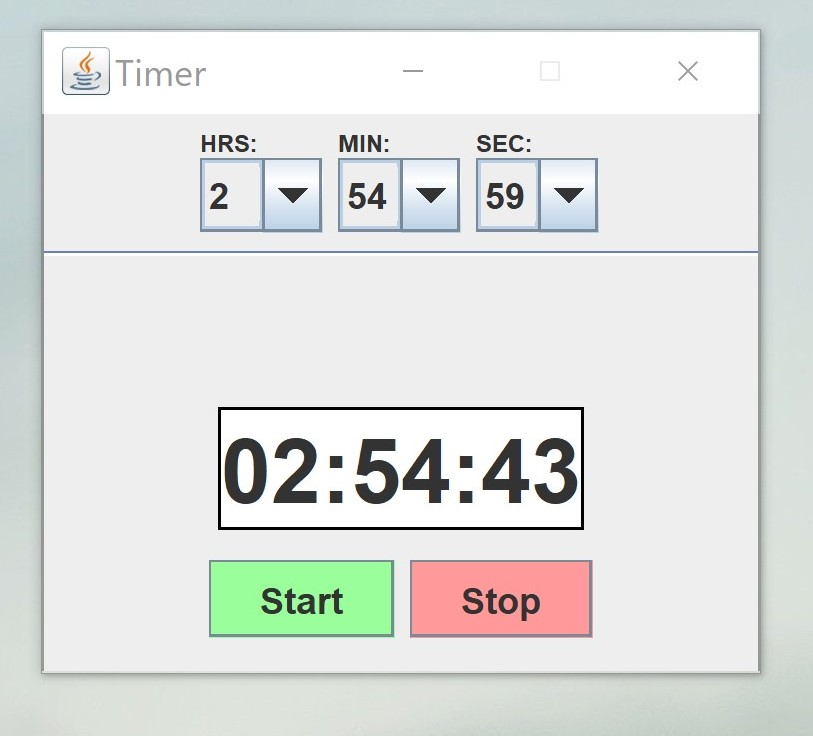
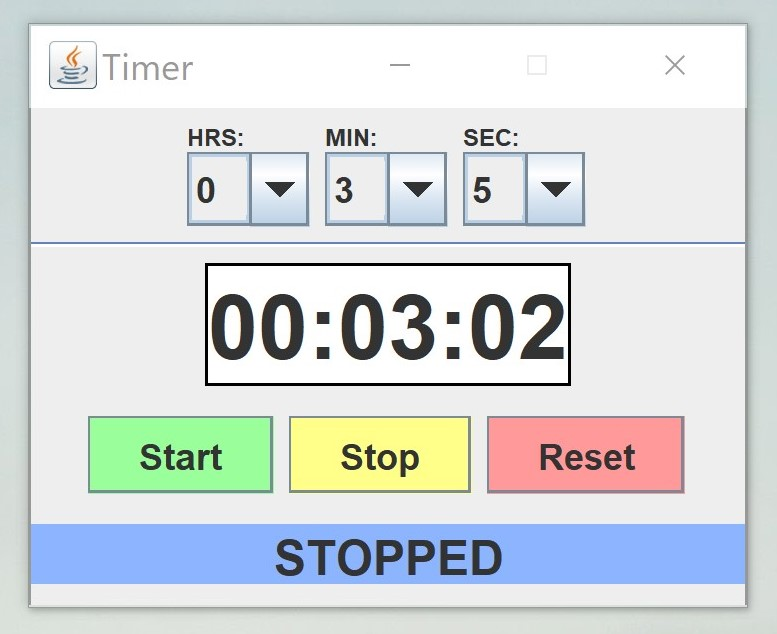
A status bar and a stopping mode have been added

diff --git a/src/TimerWindow.java b/src/TimerWindow.java
@@ -13,10 +13,9 @@ public class TimerWindow extends JFrame
     public TimerWindow()
     {
         super.setTitle("Timer");
-        super.setPreferredSize(new Dimension(250,220));
+        super.setPreferredSize(new Dimension(250,200));
+        super.setLayout(new BorderLayout());
         super.setDefaultCloseOperation(WindowConstants.EXIT_ON_CLOSE);
-
-        super.setLayout(new GridLayout(2,1));
 
         super.setResizable(false);
         super.setVisible(true);
@@ -35,41 +34,61 @@ public class TimerWindow extends JFrame
         comboBoxPanel.add(secondsListPanel, FlowLayout.RIGHT);
 
         JPanel mainPanel1=new JPanel();
-        mainPanel1.setLayout(new GridLayout(2,1));
-
+        mainPanel1.setLayout(new BorderLayout());
         mainPanel1.add(comboBoxPanel, BorderLayout.CENTER);
         mainPanel1.add(new JSeparator(), BorderLayout.PAGE_END);
 
         JLabel timeLabel = new JLabel();
-        timeLabel.setHorizontalAlignment(SwingConstants.CENTER);
-        timeLabel.setVerticalAlignment(SwingConstants.CENTER);
-
         timeLabel.setText("HH:MM:SS");
         timeLabel.setFont(new Font("", Font.BOLD, 30));
-
         timeLabel.setBackground(Color.white);
         timeLabel.setBorder(BorderFactory.createLineBorder(Color.black));
         timeLabel.setOpaque(true);
 
+        JLabel endLabel = new JLabel();
+        endLabel.setHorizontalAlignment(SwingConstants.CENTER);
+        endLabel.setPreferredSize(new Dimension(this.getPreferredSize().width, 20));
+        endLabel.setBackground(new Color(140, 180, 255));
+        endLabel.setFont(new Font("", Font.BOLD,16));
+        endLabel.setOpaque(true);
+
         JButton startButton = new JButton("Start");
         startButton.setBackground(new Color(154, 255, 154));
-
-        startButton.addActionListener((e)->
+        startButton.addActionListener((event)->
         {
-            if(hoursListPanel.timeList.getItemAt(hoursListPanel.timeList.getSelectedIndex())!=0 || minutesListPanel.timeList.getItemAt(minutesListPanel.timeList.getSelectedIndex())!=0 || secondsListPanel.timeList.getItemAt(secondsListPanel.timeList.getSelectedIndex())!=0)
+            if((hoursListPanel.timeList.getItemAt(hoursListPanel.timeList.getSelectedIndex())!=0 || minutesListPanel.timeList.getItemAt(minutesListPanel.timeList.getSelectedIndex())!=0 || secondsListPanel.timeList.getItemAt(secondsListPanel.timeList.getSelectedIndex())!=0))
             {
-                timerThread = TimerTask.createSingleTask(hoursListPanel.timeList.getItemAt(hoursListPanel.timeList.getSelectedIndex()), minutesListPanel.timeList.getItemAt(minutesListPanel.timeList.getSelectedIndex()), secondsListPanel.timeList.getItemAt(secondsListPanel.timeList.getSelectedIndex()), timeLabel);
+                timerThread = TimerTask.createSingleTask(hoursListPanel.timeList.getItemAt(hoursListPanel.timeList.getSelectedIndex()), minutesListPanel.timeList.getItemAt(minutesListPanel.timeList.getSelectedIndex()), secondsListPanel.timeList.getItemAt(secondsListPanel.timeList.getSelectedIndex()), timeLabel, endLabel);
             }
+
+            if (timerThread!=null)
+            {
+                endLabel.setText(TimerState.RUNNING.stateDescrition);
+            }
+
+            TimerTask.isWaiting = false;
         });
 
         JButton stopButton = new JButton("Stop");
-        stopButton.setBackground(new Color(255, 154, 154));
+        stopButton.setBackground(new Color(255, 255, 137));
+        stopButton.addActionListener((event)->
+        {
+            if(timerThread!=null && timerThread.isAlive())
+            {
+                TimerTask.isWaiting = true;
+                endLabel.setText(TimerState.STOPPED.stateDescrition);
+            }
+        });
 
-        stopButton.addActionListener((e)->
+        JButton resetButton = new JButton("Reset");
+        resetButton.setBackground(new Color(255, 154, 154));
+        resetButton.addActionListener((event)->
         {
             if(timerThread!=null)
             {
+                TimerTask.isWaiting = false;
                 timerThread.interrupt();
+                endLabel.setText("");
             }
         });
 
@@ -78,15 +97,16 @@ public class TimerWindow extends JFrame
 
         buttonPanel.add(startButton);
         buttonPanel.add(stopButton);
+        buttonPanel.add(resetButton);
 
         JPanel mainPanel2 = new JPanel();
         mainPanel2.setLayout(new FlowLayout());
-
         mainPanel2.add(timeLabel);
         mainPanel2.add(buttonPanel);
+        mainPanel2.add(endLabel);
 
         super.add(mainPanel1, BorderLayout.PAGE_START);
-        super.add(mainPanel2, BorderLayout.PAGE_END);
+        super.add(mainPanel2, BorderLayout.CENTER);
 
         super.pack();
    }

diff --git a/src/TimerTask.java b/src/TimerTask.java
@@ -3,28 +3,32 @@ import java.util.concurrent.TimeUnit;
 
 public class TimerTask implements Runnable
 {
-    private static Thread timerThread = null;
+    private static Thread timerThread;
+    static boolean isWaiting = false;
+
     private long secondsCounter;
 
     int hh = 0;
     int mm = 0;
     int ss = 0;
 
-    JLabel label;
-    StringBuilder time = new StringBuilder();
+    JLabel timeLabel;
+    JLabel endLabel;
+    StringBuilder timeString = new StringBuilder();
 
-    private TimerTask(int hours, int minutes, int seconds, JLabel label)
+    private TimerTask(int hours, int minutes, int seconds, JLabel timeLabel, JLabel endLabel)
     {
-        this.label = label;
+        this.timeLabel = timeLabel;
+        this.endLabel = endLabel;
         this.secondsCounter = (long) (hours*Math.pow(60,2) + minutes * 60L + seconds);
     }
 
-    public static Thread createSingleTask(int hours, int minutes, int seconds, JLabel label)
+    public static Thread createSingleTask(int hours, int minutes, int seconds, JLabel timeLabel, JLabel endLabel)
     {
         if(TimerTask.timerThread==null)
         {
-           TimerTask.timerThread = new Thread(new TimerTask(hours, minutes, seconds, label));
-           TimerTask.timerThread.start();
+           TimerTask.timerThread = new Thread(new TimerTask(hours, minutes, seconds, timeLabel, endLabel));
+           timerThread.start();
         }
         return TimerTask.timerThread;
     }
@@ -36,36 +40,38 @@ public class TimerTask implements Runnable
         {
             try
             {
-                hh = (int)(secondsCounter/Math.pow(60,2));
-                mm = (int)((secondsCounter - hh*Math.pow(60,2))/60);
-                ss = (int)((secondsCounter - hh*Math.pow(60,2))-mm*60);
-
-                time.setLength(0);
-                time.append((hh<10)?"0"+hh:hh)
-                        .append(":")
-                        .append((mm<10)?"0"+mm:mm)
-                        .append(":")
-                        .append((ss<10)?"0"+ss:ss);
-
-                label.setText(time.toString());
-
-                if(secondsCounter == 0)
+                if(!isWaiting)
                 {
-                    Thread.currentThread().interrupt();
-                }
-                else
-                {
+                    hh = (int)(secondsCounter/Math.pow(60,2));
+                    mm = (int)((secondsCounter - hh*Math.pow(60,2))/60);
+                    ss = (int)((secondsCounter - hh*Math.pow(60,2))-mm*60);
+
+                    timeString.setLength(0);
+                    timeString.append((hh<10)?"0"+hh:hh)
+                            .append(":")
+                            .append((mm<10)?"0"+mm:mm)
+                            .append(":")
+                            .append((ss<10)?"0"+ss:ss);
+
+                    timeLabel.setText(timeString.toString());
+
                     TimeUnit.SECONDS.sleep(1);
+                    if(secondsCounter == 0)
+                    {
+                        timerThread = null;
+                        timeLabel.setText("00:00:00");
+                        endLabel.setText(TimerState.FINISH.stateDescrition);
+                        Thread.currentThread().interrupt();
+                    }
                     secondsCounter--;
                 }
             }
             catch (InterruptedException e)
             {
-                timerThread=null;
-                label.setText("00:00:00");
+                timerThread = null;
+                timeLabel.setText("00:00:00");
                 return;
             }
         }
-        timerThread=null;
     }
 }

diff --git a/src/Main.java b/src/Main.java
@@ -4,13 +4,6 @@ public class Main
 {
     public static void main(String[] args)
     {
-        SwingUtilities.invokeLater(new Runnable()
-        {
-            @Override
-            public void run()
-            {
-                new TimerWindow().createGui();
-            }
-        });
+        SwingUtilities.invokeLater(() -> new TimerWindow().createGui());
     }
 }

diff --git a/src/TimerState.java b/src/TimerState.java
@@ -1,0 +1,13 @@
+public enum TimerState
+{
+    RUNNING("..."),
+    FINISH("END OF COUNTDOWN"),
+    STOPPED("STOPPED");
+
+    String stateDescrition;
+
+    TimerState(String stateDescrition)
+    {
+        this.stateDescrition = stateDescrition;
+    }
+}
